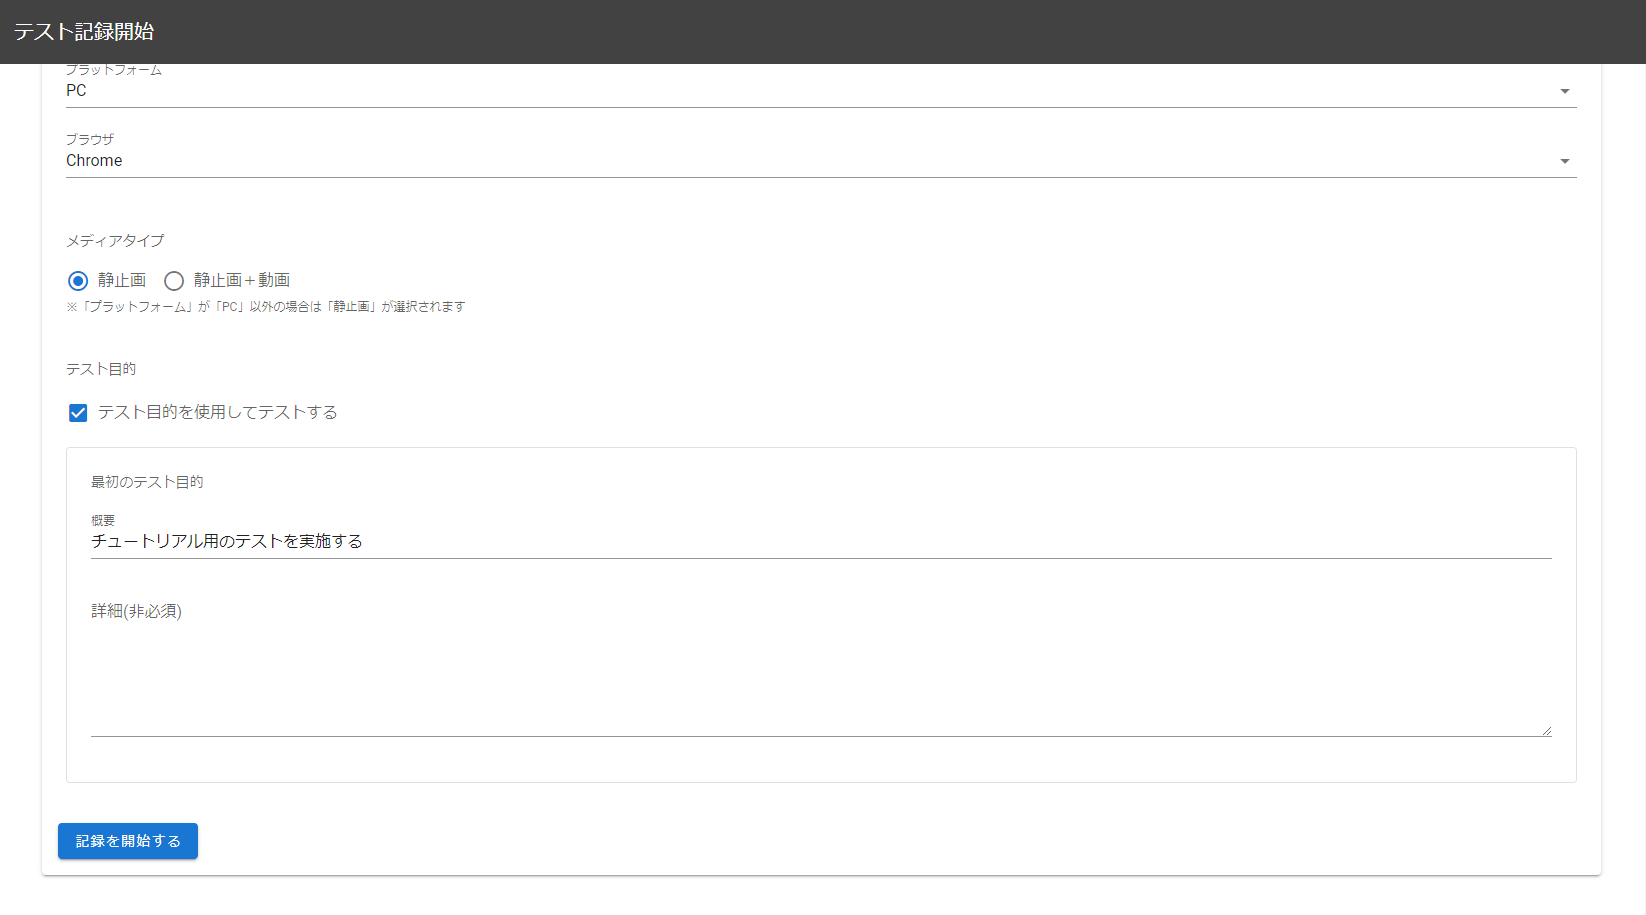
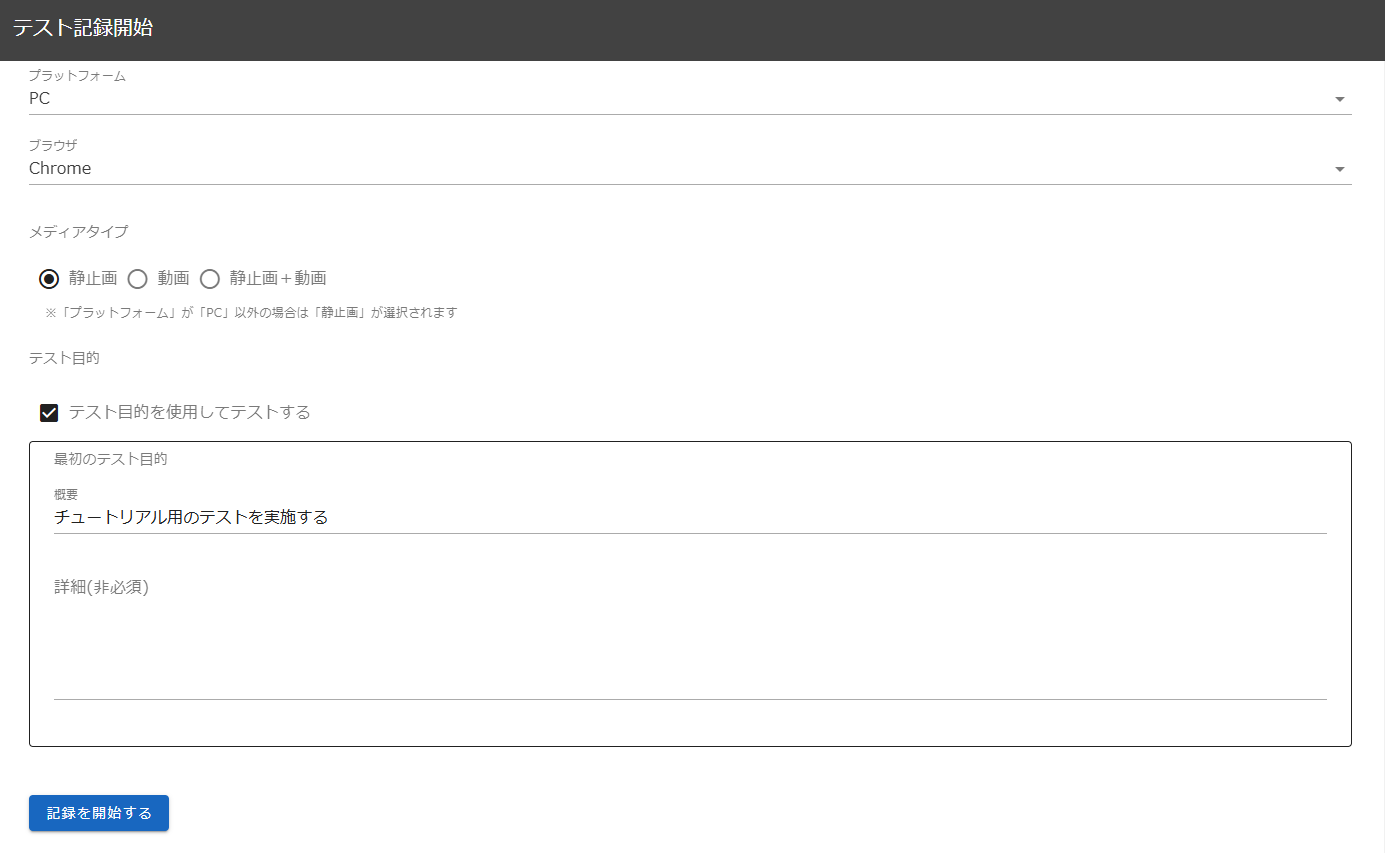
fix #1537 fix manual

diff --git a/docs/manual/capture/manual-capture.md b/docs/manual/capture/manual-capture.md
@@ -21,7 +21,7 @@
     - [メニューボタン](#メニューボタン)
       - [テスト結果のエクスポート](#テスト結果のエクスポート)
       - [テストスクリプト生成](#テストスクリプト生成)
-      - [テスト結果のリプレイ/リプレイの中止](#テスト結果のリプレイ・中止)
+      - [テスト結果のリプレイ/リプレイの中止](#テスト結果のリプレイ中止)
       - [スクリーンショット出力](#スクリーンショット出力)
       - [テスト結果の比較](#テスト結果の比較)
       - [テスト結果の削除](#テスト結果の削除)
@@ -34,7 +34,7 @@
     - [テストヒント検索ボタン](#テストヒント検索ボタン)
     - [経過時間](#経過時間)
   - [スクリーンショット出力ボタン](#スクリーンショット出力ボタン)
-  - [モデル・カバレッジ更新ボタン](#モデル・カバレッジ更新ボタン)
+  - [モデル・カバレッジ更新ボタン](#モデルカバレッジ更新ボタン)
   - [シーケンス図モデル](#シーケンス図モデル)
   - [画面遷移図モデル](#画面遷移図モデル)
   - [画面要素カバレッジ](#画面要素カバレッジ)
@@ -98,9 +98,12 @@ USB で接続されているデバイスを選択することができます。
 
 - 静止画  
   テスト画面を静止画で記録します。
+- 動画  
+  テスト画面を動画で記録します。
 - 静止画＋動画  
-  テスト画面を静止画と動画で記録します。  
-  詳細は「[動画記録](../common/capture-video.md)」をご参照ください。
+  テスト画面を静止画と動画で記録します。
+
+:bulb:動画に関する詳細は「[動画記録](../common/capture-video.md)」をご参照ください。
 
 ## テスト目的
 
@@ -189,7 +192,8 @@ USB で接続されているデバイスを選択することができます。
 - \{テスト結果名}\_YYYYDDMM_HHmmss.zip
 
 ```
-  - スクリーンショット
+  - スクリーンショット（静止画を記録している場合）
+  - 動画（動画を記録している場合）
   - コメント情報(comments.json)
   - テスト結果情報(log.json)
   - 動的変更情報(mutations.json)
@@ -202,7 +206,7 @@ USB で接続されているデバイスを選択することができます。
 
 #### テスト結果のリプレイ・中止
 
-メニューボタンの一覧から押下するとブラウザが立ち上がり、操作のタイミング含め、記録された操作がそのまま自動的に繰り返されます。
+メニューボタンの一覧から押下するとブラウザが立ち上がり、記録された操作が自動的に繰り返されます。操作の待ち時間はリプレイ時の設定によって変更がすることができます。
 リプレイ開始後にメニューボタンの一覧から「リプレイの中止」を押下するとブラウザが閉じ、リプレイが中止されます。
 
 また、リプレイ元のテスト結果とリプレイしたテスト結果を比較することもできます。  
@@ -542,7 +546,8 @@ USB で接続されているデバイスを選択することができます。
 - \{テスト結果名}\_YYYYDDMM_HHmmss.zip
 
 ```
-  - スクリーンショット
+  - スクリーンショット（静止画を記録している場合）
+  - 動画（動画を記録している場合）
   - コメント情報(comments.json)
   - テスト結果情報(log.json)
   - 動的変更情報(mutations.json)

diff --git a/docs/manual/common/capture-video.md b/docs/manual/common/capture-video.md
@@ -1,6 +1,6 @@
 # テストの録画
 
-テスト記録開始時に「メディアタイプ」で「静止画＋動画」を選択すると、テスト記録時にテスト中の画面を**動画** で記録するようになります。
+テスト記録開始時に「メディアタイプ」で「動画」または「静止画＋動画」を選択すると、テスト記録時にテスト中の画面を**動画** で記録するようになります。
 
 :warning: 記録された動画は以下の機能では利用できません。
 
@@ -23,6 +23,6 @@
 <img src="./images/media-type.png"/>
 
 テスト記録開始画面の「メディアタイプ」から設定ができます。  
-メディアタイプを「静止画＋動画」に設定することでテスト画面を動画で記録することができます。
+メディアタイプを「動画」または「静止画＋動画」に設定することでテスト画面を動画で記録することができます。
 
 :warning:記録中に設定を変えることはできません。記録終了後に設定を変更し、テストを再開することは可能です。

diff --git a/docs/tutorial/capture/tutorial-capture.md b/docs/tutorial/capture/tutorial-capture.md
@@ -48,7 +48,7 @@ LatteArt: http://127.0.0.1:3000?capture=http://127.0.0.1:3001&repository=http://
     - 本チュートリアルでは、LatteArt の画面にテストを行いましょう。`http://127.0.0.1:3000`を入力してください。
   - テスト結果に名前を付けたい場合は「URL 欄」の下側の「テスト結果名欄」に入力してください。
     - テスト結果名は省略可です。その場合、自動的にテスト結果名`session_YYYYMMDD_HHmmss`が付与されます。
-  - メディアタイプを静止画または静止画＋動画いずれかを選択してください。
+  - メディアタイプを静止画、動画、静止画＋動画のいずれかを選択してください。
     - 本チュートリアルでは、静止画を選択してください。
   - テスト目的を使用するか設定してください。
     - 本チュートリアルでは、チェックボックスを ON にし、最初のテスト目的を入力してください。

diff --git a/docs/manual/common/test-result-comparison.md b/docs/manual/common/test-result-comparison.md
@@ -23,7 +23,8 @@
 
 ダイアログ上で「リプレイ結果を保存する」チェックボックスを ON にし、「OK」ボタンからリプレイを実行すると、リプレイ時のテスト結果を保存することができます。
 
-:bulb: 保存するテスト結果は任意の名前を付与することができます。
+:bulb: 保存するテスト結果は任意の名前を付与することができます。  
+:bulb: テスト結果を保存する際、画面キャプチャを取得するかどうか選択することができます。
 
 また、「リプレイ元のテスト結果「xxxxxx」と比較する」チェックボックスを ON にすることで、保存したテスト結果をリプレイ元のテスト結果と差分比較することができます。
 

diff --git a/docs/manual/management/manual-management.md b/docs/manual/management/manual-management.md
@@ -14,7 +14,7 @@
 - [テストマトリクス編集](#テストマトリクス編集)
   - [テストマトリクス追加ボタン](#テストマトリクス追加ボタン)
   - [テストマトリクス編集欄](#テストマトリクス編集欄)
-  - [グループ・テスト対象編集欄](#グループ・テスト対象編集欄)
+  - [グループ・テスト対象編集欄](#グループテスト対象編集欄)
 - [ストーリー一括レビュー](#ストーリー一括レビュー)
   - [レビューボタン](#レビューボタン)
 - [進捗管理](#進捗管理)

diff --git a/docs/startup/pc.md b/docs/startup/pc.md
@@ -97,7 +97,7 @@ LatteArt を用いたテストの考え方、および実践については 「[
 
   ```jsonc
   {
-    "browser": "chrome"
+    "browser": "chrome",
     // ...
   }
   ```
@@ -117,12 +117,12 @@ LatteArt を用いたテストの考え方、および実践については 「[
         // ...
         "env": { "port": "13002" },
         "http": {
-          "url": "http://localhost:13002"
+          "url": "http://localhost:13002",
           // ...
-        }
-      }
+        },
+      },
       // ...
-    ]
+    ],
   }
   ```
 
